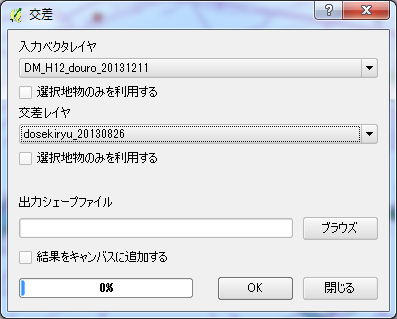
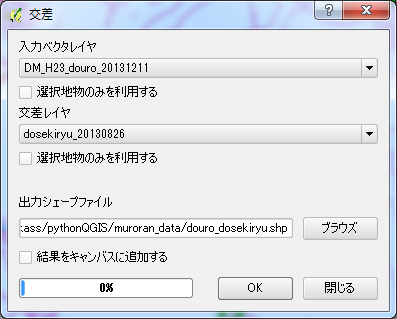
chap4キャプチャ差し替え
QGIS ver from 2.2 to 2.4

diff --git a/4/4-1.md b/4/4-1.md
@@ -1,4 +1,4 @@
-##a. 防災・減災・安全に役立つ地図を作成する
+##a. 防災・減災・安全に役立つ地図を作成する
 
 ###1. 防災・減災・安全に役立つ地図を作成するためにデータをダウンロードしましょう。
 
@@ -42,19 +42,19 @@
 
 点要素のスタイルと言われてもピンと来ないかもしれません。例を挙げると○○の設置場所、避難所等が点要素のスタイルとして定義されるのが一般的です。ベクターデータを新規レイヤとして追加します(操作方法についてはAppendix Iを参照のこと)。先ほど展開したデータの中から、hinanbasyo.shpを追加します。以下の図のようになりましたか。
 
-![points1](img/4-1-1.png).
+![points_hinanjyo](img/4-1-1.png).
 
 同様に、aed_20140618.shp追加してみましょう。
 
-![points2](img/4-1-2.png).
+![points_aed](img/4-1-2.png).
 
 さらに、sunabako_20140220.shpを追加してみましょう。
 
-![points3](img/4-1-3.png).
+![points_sunabako](img/4-1-3.png).
 
 このように、点要素のデータはビューのレイヤパネルに小さな〇が記載されていることを確認してください。
 
-![points3](img/4-1-4.png).
+![pannel](img/4-1-4.png).
 
 見やすいようにカラーを変更したい場合はAppendix Iのレイヤにスタイルを設定するを参照してください。
 
@@ -62,17 +62,17 @@
 
 線要素のスタイルにはどのようなものがあるでしょうか、一般的には、鉄道や道路、河川などが挙げられると思います。それではベクターデータを前項の点データと重ねてみましょう。
 
-まず初めに道路データを追加してみましょう。道路データはDM_H12_douro_20131211.shpになります。
+まず初めに道路データを追加してみましょう。道路データはDM_H23_douro_20131211.shpになります。
 
-![line1](img/4-1-5.png).
+![line_douro](img/4-1-5.png).
 
-次に、鉄道のデータを追加してみましょう。鉄道のデータはDM_H12_tetsudou_20131211.shpになります。
+次に、鉄道のデータを追加してみましょう。鉄道のデータはDM_H23_tetsudou_20131211.shpになります。
 
-![line2](img/4-1-6.png).
+![line_tetsudo](img/4-1-6.png).
 
 見にくい場合や、ポイントデータが隠れてしまう場合などはレイヤパネルのレイヤの順序を入れ替えてみましょう。ドラッグしたままレイヤの順位を変更すると、地図ビューに変更が反映されます。
 
-![line3](img/4-1-7.png).
+![pannel2](img/4-1-7.png).
 
 また、線要素のデータはビューのレイヤパネルに細い線が記載されていることを確認してください。
 
@@ -87,11 +87,11 @@
 - dosya_dosekiryu_20130826.shp
 - dosya_mi_keisya_20130826.shp
 
-![poly1](img/4-1-9.png).
+![dosekiryu_datasets](img/4-1-9.png).
 
 上図のように表示されたかと思います。また、下図に示したようにポリゴンのレイヤはレイヤパネル上では四角形で表現されていることが分かるかと思います。
 
-![poly2](img/4-1-8.png).
+![pannel3](img/4-1-8.png).
 
 さて、ただ表示するだけでは、あまり意味がないので土砂災害が起こった場合に、通行できなくなる可能性がある区間を算出して描画してみましょう。
 
@@ -104,26 +104,26 @@
 - クリップ
  - 2つのレイヤの共通部分が新しいレイヤとして作成される。結果のジオメトリは先に指定したレイヤの属性値だけが保持される。
 
-![poly3](img/4-1-10.png).
+![空間演算](img/4-1-10.png).
 
 交差をクリックすると、以下のようなウィンドウが開くかと思います。
 
-![poly4](img/4-1-11.png).
+![交差window](img/4-1-11.png).
 
 重ね合わせたいレイヤを二つ選択すれば良いです。当然ですが、入力ベクタレイヤと交差レイヤに同じレイヤを選択しないでください。共通部分のくり抜いたレイヤは、新規のシェープファイルとして定義されるので、ブラウズをクリックして保存先となるディレクトリを選択してください。
 
-![poly5](img/4-1-12.png).
+![保存先ディレクトリ](img/4-1-12.png).
 
 新規に作成されるシェープファイルに名前を付けて保存します。後々分かりにくくならないように、シンプルな命名規則のものがいいでしょう。今回はmuroran_dataディレクトリの中に、douro_dosekiryu.shpとして保存しました。
 
 OKボタンを押すと、新規シェープファイルの作成が始まります。
 
-![poly6](img/4-1-13.png).
+![新規shpファイル作成](img/4-1-13.png).
 
 
 新規に作成した、douro_dosekityu.shpを新たに追加してみましょう。
 
-![poly7](img/4-1-14.png).
+![土石流被災道路](img/4-1-14.png).
 
 図中の赤線部分の道路は、土石流の危険地域と重複する道路であることが分かるかと思います。
 

diff --git a/3/3-2.md b/3/3-2.md
@@ -8,11 +8,11 @@ pluginを使用してレイヤーを作成してみましょう。巻末のappen
 
 ### ii pluginを使用してopenstreetmapを表示する。
 
-![プラグイン](./img/3-2-1.png).
+![プラグイン1](./img/3-2-1.png).
 
 追加後に、【Web(W)】をクリックします。
 
-![プラグイン](./img/3-2-2.png).
+![プラグイン2](./img/3-2-2.png).
 
 図のように、OpenLayersPluginを使用することが出来ることが可能になったかと思います。プルダウンメニューから【OpenLayersPlugin】をクリックしてOpenStreetMap上にカーソルを置き選択状態「リストアイテム」としていくつかのオープンストリートマップ及び編集を加えたオープンストリートマップが選択できます。
 以下のようになったかと思います。
@@ -23,11 +23,11 @@ pluginを使用してレイヤーを作成してみましょう。巻末のappen
 
 ![オープンサイクルマップ](./img/3-2-4.png).
 
-![オープンサイクルマップ2](./img/3-2-5.png).
+![オープンサイクルマップ_euro](./img/3-2-5.png).
 
 例えば下の図は、特にオープンサイクルマップの編集が盛んなオランダのマーストリヒト周辺を拡大してみたものになります。
 
-![オープンサイクルマップ2](./img/3-2-6.png).
+![オープンサイクルマップ_Maastricht](./img/3-2-6.png).
 
 【OCM Landscape】を選択してクリックしてください。例えば、以下のように表示されるかと思います。これは建物を地図上に編集して加えられた地図になります。サイクルマップ同様に、世界全体をカバーしていないのでその点にご注意ください。添付の図は、神奈川県横浜市港北区日吉駅周辺を拡大した場合のものです。
 
@@ -40,6 +40,9 @@ pluginを使用してレイヤーを作成してみましょう。巻末のappen
 ### iii 地理院地図を表示する
 
 //TODO QGIS2.4　update後につき要確認(2.2確認済み) Shoichi Otomo
+//大幅な改定が必要...
+//コード変更を加えたところ動かなかった 20140822
+
 
 地理院地図を表示する場合に色々な方法がありますが、pluginのソースコードを変更、追記して、地理院地図を表示できるようにしてみましょう。
 
